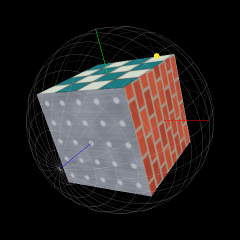
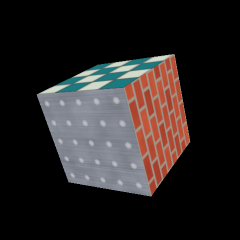
build(tools): make the guide's distance and shader images legible

diff --git a/tools/make_guide_images.py b/tools/make_guide_images.py
@@ -10,7 +10,8 @@ Four groups of PNG files are written:
 * every step each material records while it builds, plus its normal map, at
   160 pixels, taken from :func:`textures.iter_materials` so they show the
   real layers;
-* the cube drawn once per entry of ``shaders.CUBE_VIEWS``, at 240 pixels.
+* the cube alone, drawn once per entry of ``shaders.CUBE_VIEWS`` under a light
+  that puts the specular highlight on the front face, at 240 pixels.
 
 Everything is generated at a larger size and smooth-scaled down. Regenerate
 the images only when a material or the cube shader changes.
@@ -26,7 +27,9 @@ import sys
 from pathlib import Path
 
 import numpy as np
+from OpenGL import GL
 from PyQt6.QtCore import Qt
+from PyQt6.QtGui import QVector3D
 
 from offscreen import OffscreenScene
 from make_icon import array_to_image
@@ -62,10 +65,12 @@ def to_image(array, size):
     """Turn a field or an RGB image into a smooth-scaled ``QImage``.
 
     The array is copied first, so a step recorded by a material is never
-    changed. A 2-D field whose values all lie in [0, 1] is drawn as greyscale
-    without stretching (0 black, 1 white), which keeps masks meaningful. Any
-    other 2-D field is stretched from its minimum (black) to its maximum
-    (white). An ``(h, w, 3)`` array is read as RGB and clipped to [0, 1].
+    changed. A 2-D field is drawn as greyscale by this rule: if its maximum is
+    below 0.5 (distances, which are small), or if any value lies outside
+    [0, 1], it is stretched from its minimum (black) to its maximum (white);
+    otherwise, when its maximum is 0.5 or more and every value lies in [0, 1],
+    it is drawn unstretched, 0 black and 1 white, which keeps masks
+    meaningful. An ``(h, w, 3)`` array is read as RGB and clipped to [0, 1].
 
     Parameters
     ----------
@@ -82,7 +87,7 @@ def to_image(array, size):
     data = np.array(array, dtype=float)
     if data.ndim == 2:
         low, high = data.min(), data.max()
-        if low < 0.0 or high > 1.0:
+        if high < 0.5 or low < 0.0 or high > 1.0:
             data = (data - low) / (high - low) if high > low else np.zeros_like(data)
         data = np.repeat(data[..., None], 3, axis=2)
     data = np.clip(data, 0.0, 1.0)
@@ -94,6 +99,32 @@ def to_image(array, size):
         Qt.AspectRatioMode.IgnoreAspectRatio,
         Qt.TransformationMode.SmoothTransformation,
     )
+
+
+def specular_light(ctx):
+    """Find the light that centres the specular highlight on the front face.
+
+    The front face is the model's +Z face. Its normal in world space is
+    ``n = rotation * (0, 0, 1)`` and its centre is at the same point, since
+    the cube has half-width 1. With ``v`` the unit vector from that centre to
+    the camera, the mirror direction is ``2 (n . v) n - v``: a light there
+    reflects straight into the camera, so the highlight sits on the face's
+    middle.
+
+    Parameters
+    ----------
+    ctx : context.SceneContext
+        Scene state; its rotation and camera give the geometry.
+
+    Returns
+    -------
+    PyQt6.QtGui.QVector3D
+        Unit vector towards the light, in world space.
+    """
+    normal = ctx.rotation.rotatedVector(QVector3D(0, 0, 1))
+    to_camera = (ctx.camera_position() - normal).normalized()
+    mirror = 2.0 * QVector3D.dotProduct(normal, to_camera) * normal - to_camera
+    return mirror.normalized()
 
 
 def primitive_images():
@@ -206,10 +237,19 @@ def main():
 
     scene = OffscreenScene(VIEW_RENDER)
     ctx = scene.widget.ctx
+    cube = scene.widget.cube
+
+    def paint_cube():
+        GL.glEnable(GL.GL_DEPTH_TEST)
+        GL.glClearColor(*config.BACKGROUND_COLOR, 1.0)
+        GL.glClear(GL.GL_COLOR_BUFFER_BIT | GL.GL_DEPTH_BUFFER_BIT)
+        cube.paint(ctx)
+
+    default_light = ctx.light
+    ctx.light = specular_light(ctx)
     for index, name in enumerate(shaders.CUBE_VIEWS):
         ctx.cube_view = index
-        frame = scene.render()
-        image = frame.scaled(
+        image = scene.render(paint_cube).scaled(
             VIEW_OUTPUT,
             VIEW_OUTPUT,
             Qt.AspectRatioMode.IgnoreAspectRatio,
@@ -217,6 +257,7 @@ def main():
         )
         save(image, f"view-{name}.png")
     ctx.cube_view = config.DEFAULT_CUBE_VIEW
+    ctx.light = default_light
     scene.close()
 
     print(f"{count} images, {total / 1024:.0f} KiB")
